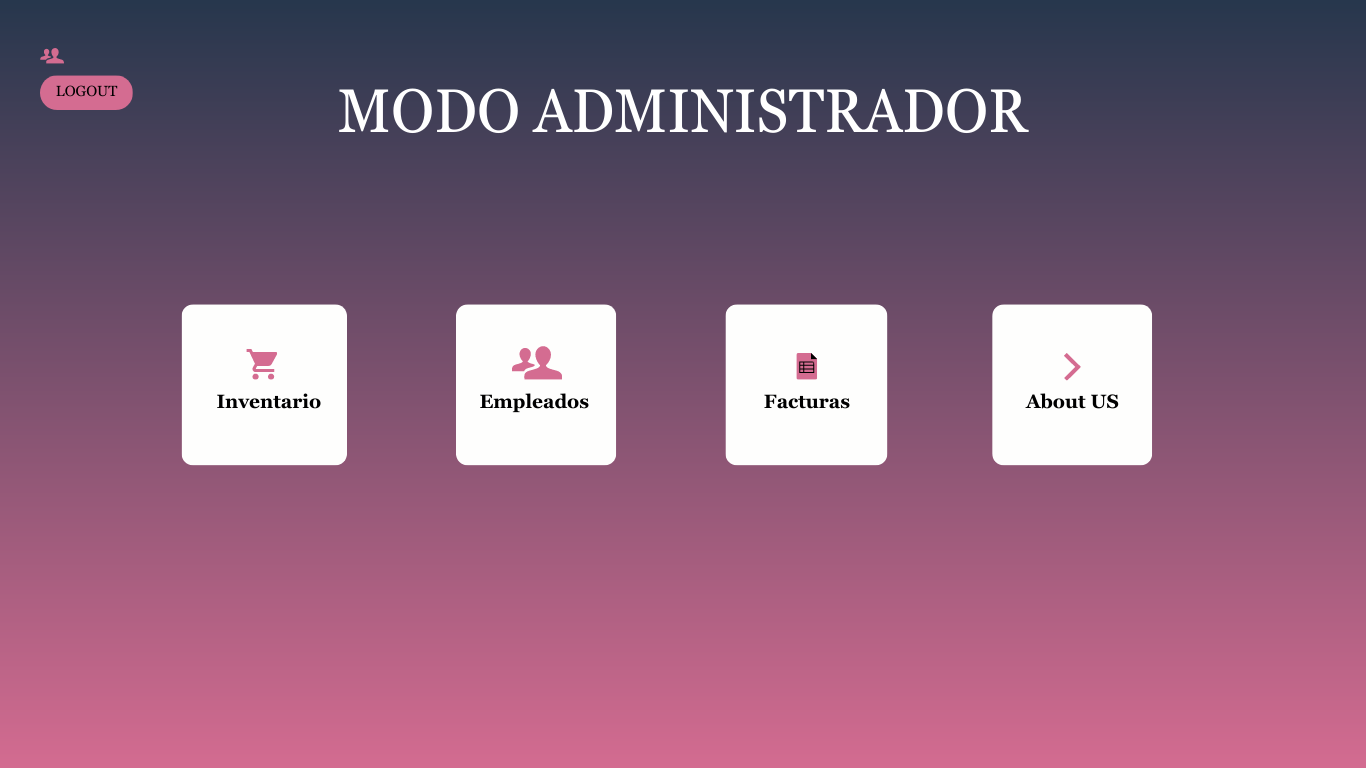
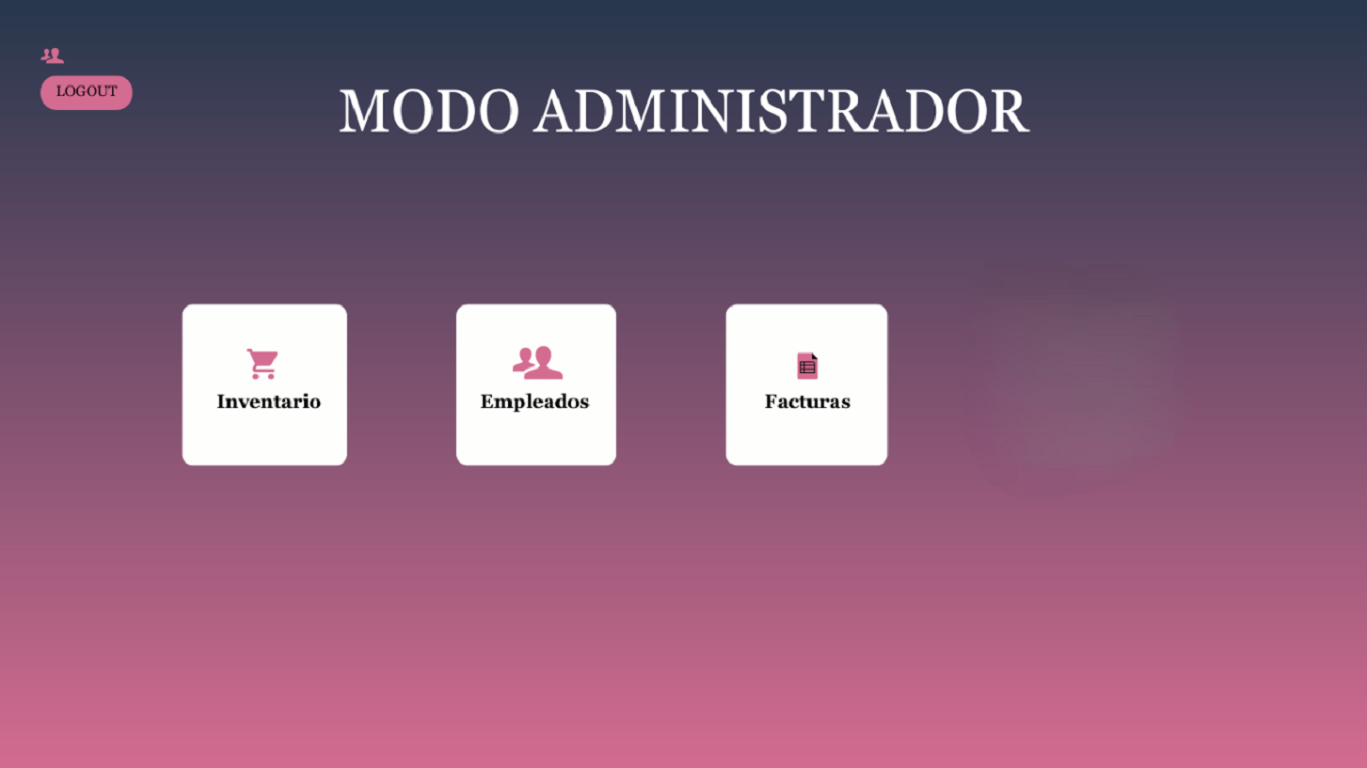
cambios ultimos eliminacion de un boton

diff --git a/admin.py b/admin.py
@@ -212,7 +212,7 @@ class Admin_Page:
         self.message.place(relx=0.046, rely=0.056, width=62, height=30)
         self.message.configure(font="-family {Poppins} -size 12")
         self.message.configure(foreground="#ffffff")
-        self.message.configure(background="#FE6B61")
+        self.message.configure(background="#383c52")
         self.message.configure(text="""ADMIN""")
         self.message.configure(anchor="w")
 
@@ -270,18 +270,7 @@ class Admin_Page:
         self.button4.configure(command=invoices)
 
 
-        self.button5 = Button(adm)
-        self.button5.place(relx=0.732, rely=0.508, width=146, height=63)
-        self.button5.configure(relief="flat")
-        self.button5.configure(overrelief="flat")
-        self.button5.configure(activebackground="#ffffff")
-        self.button5.configure(cursor="hand2")
-        self.button5.configure(foreground="#333333")
-        self.button5.configure(background="#ffffff")
-        self.button5.configure(font="-family {Poppins SemiBold} -size 12")
-        self.button5.configure(borderwidth="0")
-        self.button5.configure(text="""Acerca de""")
-        self.button5.configure(command=about)
+       
 
     def Logout(self):
         sure = messagebox.askyesno("Cerrar", "Estás seguro de salir?", parent=adm)

diff --git a/employee.py b/employee.py
@@ -4,6 +4,7 @@ import re
 import random
 import string
 from tkinter import *
+import ult.centrar as ult
 from tkinter import messagebox
 from tkinter import ttk
 from time import strftime
@@ -17,6 +18,7 @@ root = Tk()
 
 root.geometry("1366x768")
 root.title("Usuario Empleado")
+ult.centrar_ventana(root,1366,768)
 
 
 user = StringVar()
@@ -91,6 +93,7 @@ class login_page:
 
     def __init__(self, top=None):
         top.geometry("1366x768")
+        ult.centrar_ventana(top,1366,768)
         top.resizable(0, 0)
         top.title("Retail Manager")
 
@@ -186,6 +189,7 @@ def exitt():
 class bill_window:
     def __init__(self, top=None):
         top.geometry("1366x768")
+        ult.centrar_ventana(top,1366,768)
         top.resizable(0, 0)
         top.title("Billing System")
 
